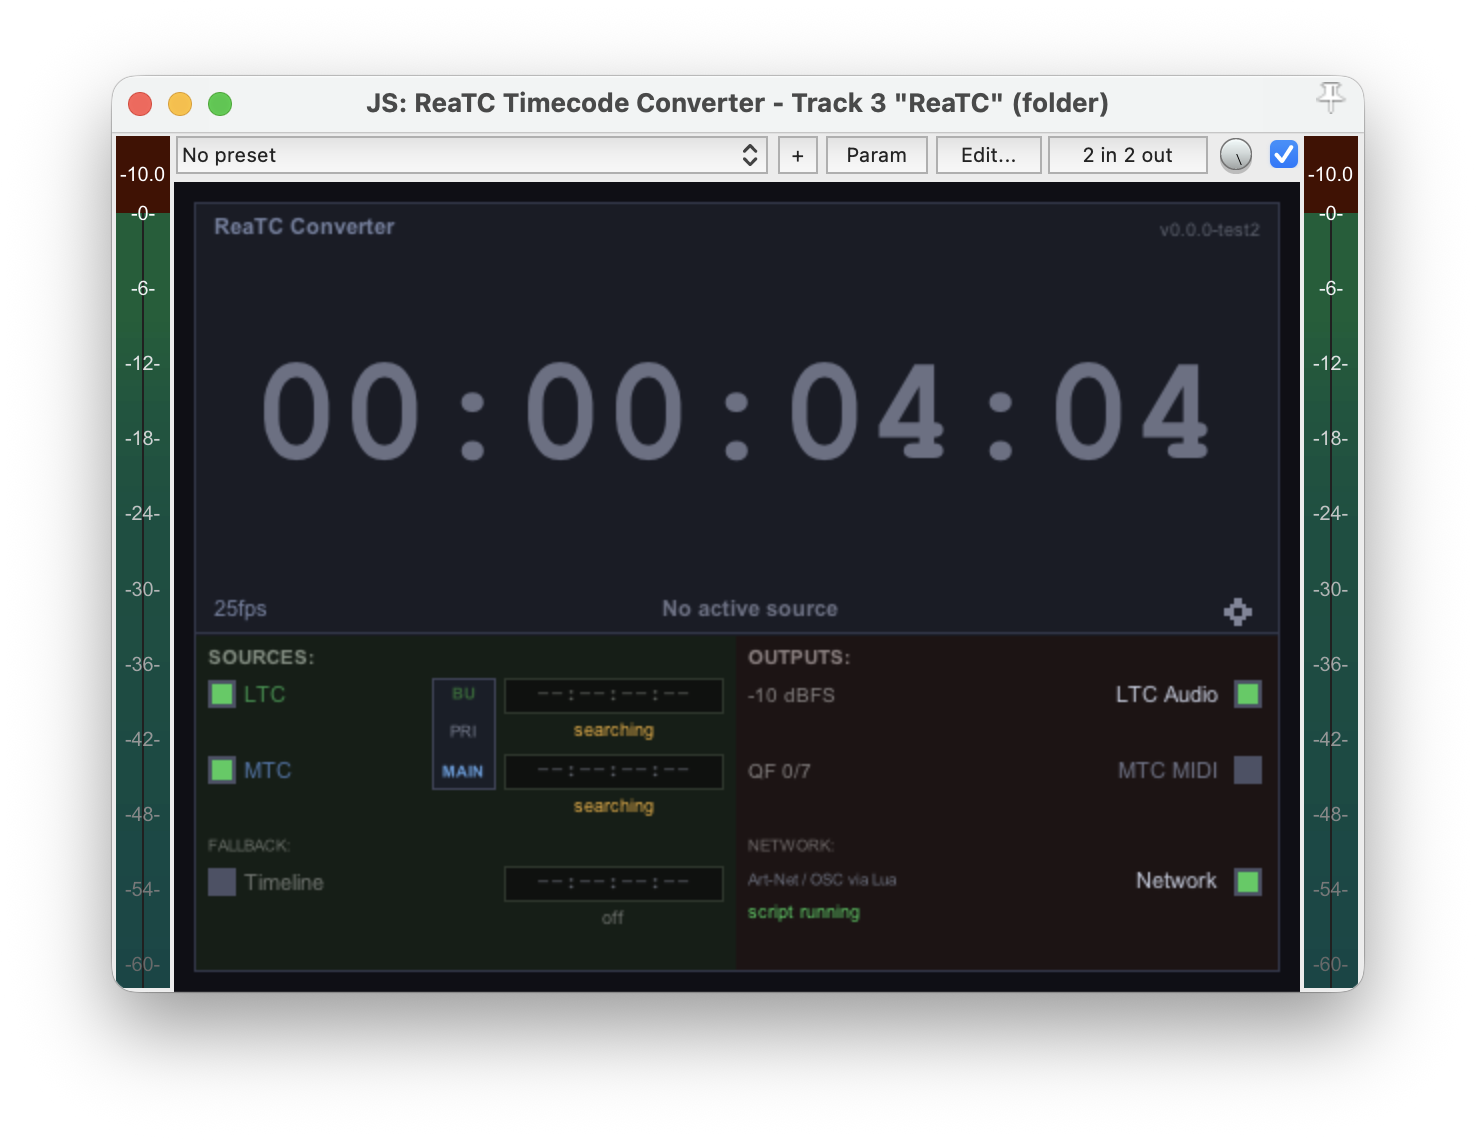
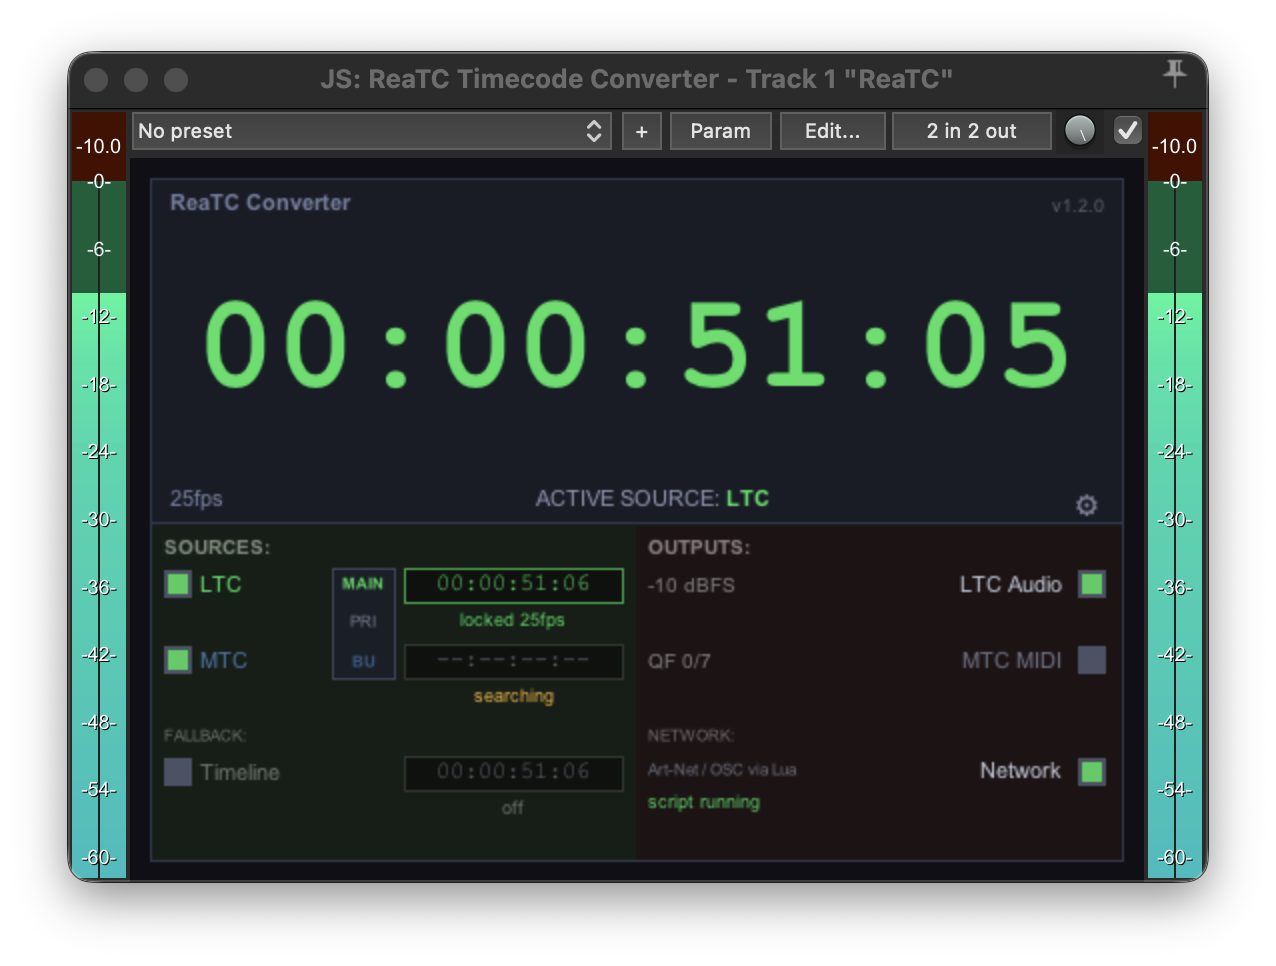
docs: update README and screenshots for v1.2.0
- Add diagnostics plugin section with screenshot
- Add LTC user bits section
- Update features list: user bits, diagnostics, slew-rate LTC
- Replace JSFX settings screenshot (now shows user bits + BGF mode)
- Add wide JSFX view screenshot
- Update all screenshots to current UI

diff --git a/README.md b/README.md
@@ -54,12 +54,14 @@ https://github.com/paskateknikko/ReaTC/raw/reapack/index.xml
 - **Art-Net TimeCode** — broadcasts SMPTE TC over UDP (port 6454); unicast or broadcast; configurable IP
 - **MIDI Timecode (MTC)** — sample-accurate quarter-frame generator via JSFX; no external MIDI library required
 - **OSC** — broadcasts SMPTE TC as raw OSC (`/tc ,iiiii H M S F type`) at ~30 fps; configurable destination IP, port, and address
-- **LTC audio generator** — encodes timecode to LTC audio with rise-time filtering per SMPTE 12M spec
+- **LTC audio generator** — encodes timecode to LTC audio with slew-rate shaping matching REAPER's native LTC waveform
+- **LTC User Bits** — configurable user bits format (Characters/Date-Timezone) with SMPTE/EBU BGF flag positioning
 - **Bake LTC from regions** — standalone tool generates offline LTC WAV files from project regions with per-region TC start, FPS, and output level
 
 ### General
 - **TC Offset** — user-configurable HH:MM:SS:FF offset applied before all outputs; supports drop-frame wrap-around
-- **Network sync status** — Art-Net and OSC indicators show packet counts and daemon health
+- **LTC Diagnostics** — dedicated analysis JSFX with waveform display, bit histogram, timing analysis, and auto-detected frame rate / BGF positioning
+- **Network sync status** — Art-Net and OSC toggleable directly from the main window
 - **All standard frame rates** — 24fps (Film), 25fps (EBU/PAL), 29.97fps Drop Frame, 30fps (SMPTE)
 - **Dark UI** — unified dark style across Lua script and JSFX; scalable TC display
 - **Cross-platform** — macOS (10.15+) and Windows (10+); Python 3 standard library only
@@ -96,7 +98,11 @@ When collapsed, the plugin shows a compact timecode display:
 
 ![JSFX plugin — compact view](images/jsfx-compact.png)
 
-Click the gear icon to access JSFX settings (framerate, LTC threshold, output level):
+When resized wider, the plugin shows a compact timecode display:
+
+![JSFX plugin — wide compact view](images/jsfx-wide.png)
+
+Click the ⚙ icon to access JSFX settings (framerate, LTC threshold, output level, user bits, BGF mode):
 
 ![JSFX settings dialog](images/jsfx-settings.png)
 
@@ -148,6 +154,16 @@ In the JSFX plugin UI, enable the outputs you need:
 4. Rendered WAV items are placed on a `LTC [rendered]` track
 
 ![Bake LTC from Regions — per-region TC start and framerate](images/regions-to-ltc.png)
+
+### LTC User Bits
+
+In the JSFX settings, set **User Bits** format (Characters or Date/Timezone) and enter 4 byte values (0–255). These are embedded in the LTC stream per SMPTE 12M. At 25fps, you can choose between SMPTE (REAPER-compatible) and EBU standard BGF bit positions.
+
+### LTC Diagnostics
+
+Add the **ReaTC LTC Diagnostics** JSFX to the same track (or any track receiving LTC audio) to inspect the signal in detail. Auto-detects frame rate, BGF positioning, and decodes user bits.
+
+![LTC Diagnostics — signal analysis with bit histogram and waveform](images/diagnostics.png)
 
 
 ## Troubleshooting

diff --git a/CHANGELOG.md b/CHANGELOG.md
@@ -13,7 +13,7 @@ Versioning: `MAJOR.MINOR.PATCH[-PRE]` per [Semantic Versioning](https://semver.o
 # ReaTC Changelog
 
 
-## [1.2.0] - Unreleased
+## [1.2.0] - 2026-04-04
 
 ### Added
 
